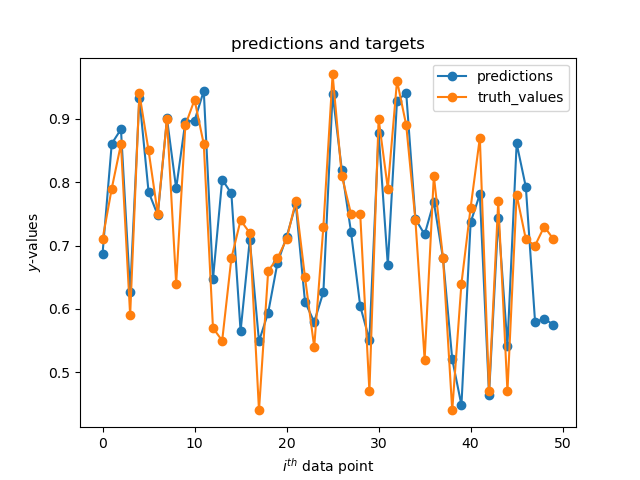
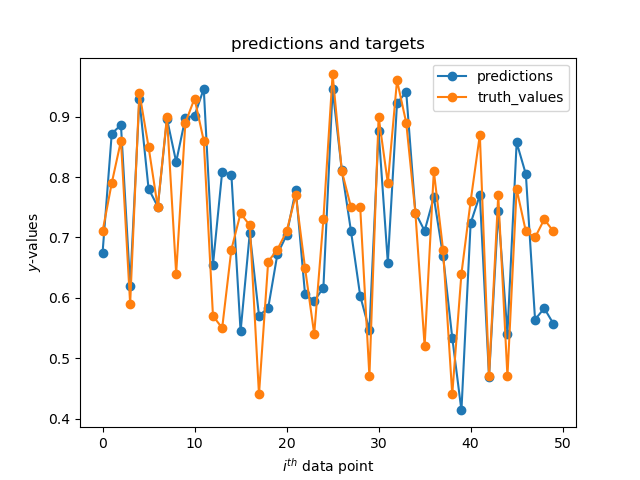
ran 40 epochs

diff --git a/2a_1.py b/2a_1.py
@@ -9,7 +9,7 @@ from util.plots import plot_loss, plot_predictions
 NUM_CLASSES = 7
 
 # determined from early stopping
-epochs = 50
+epochs = 40
 batch_size = 8
 num_neurons = 10
 weight_decay = 10e-3
